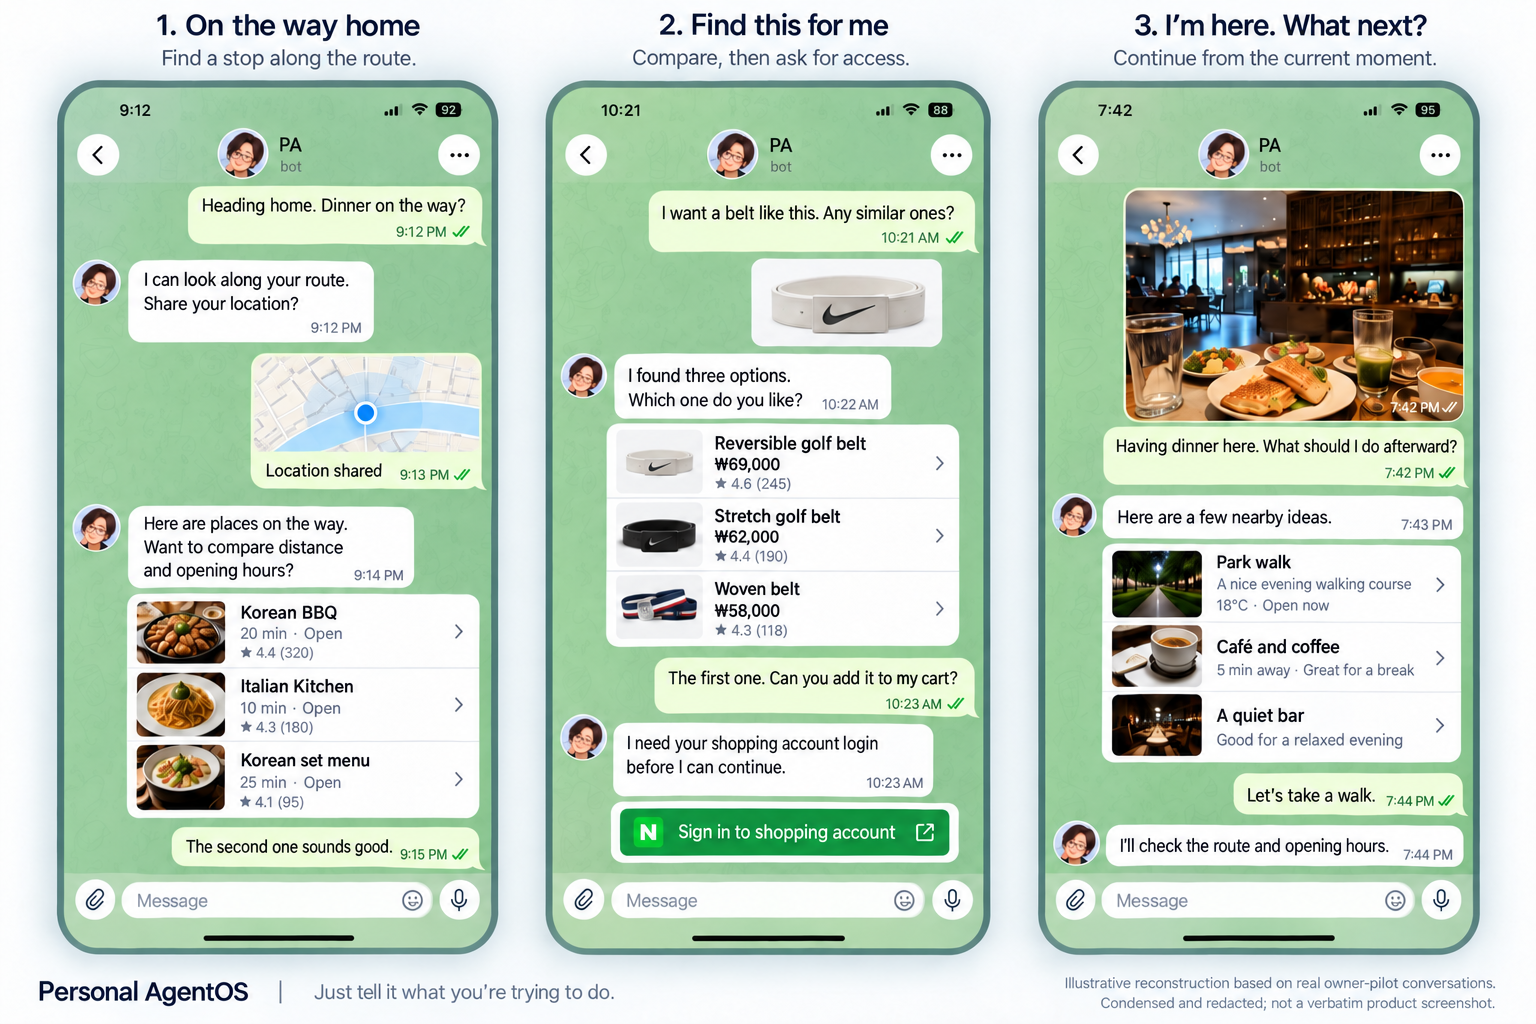
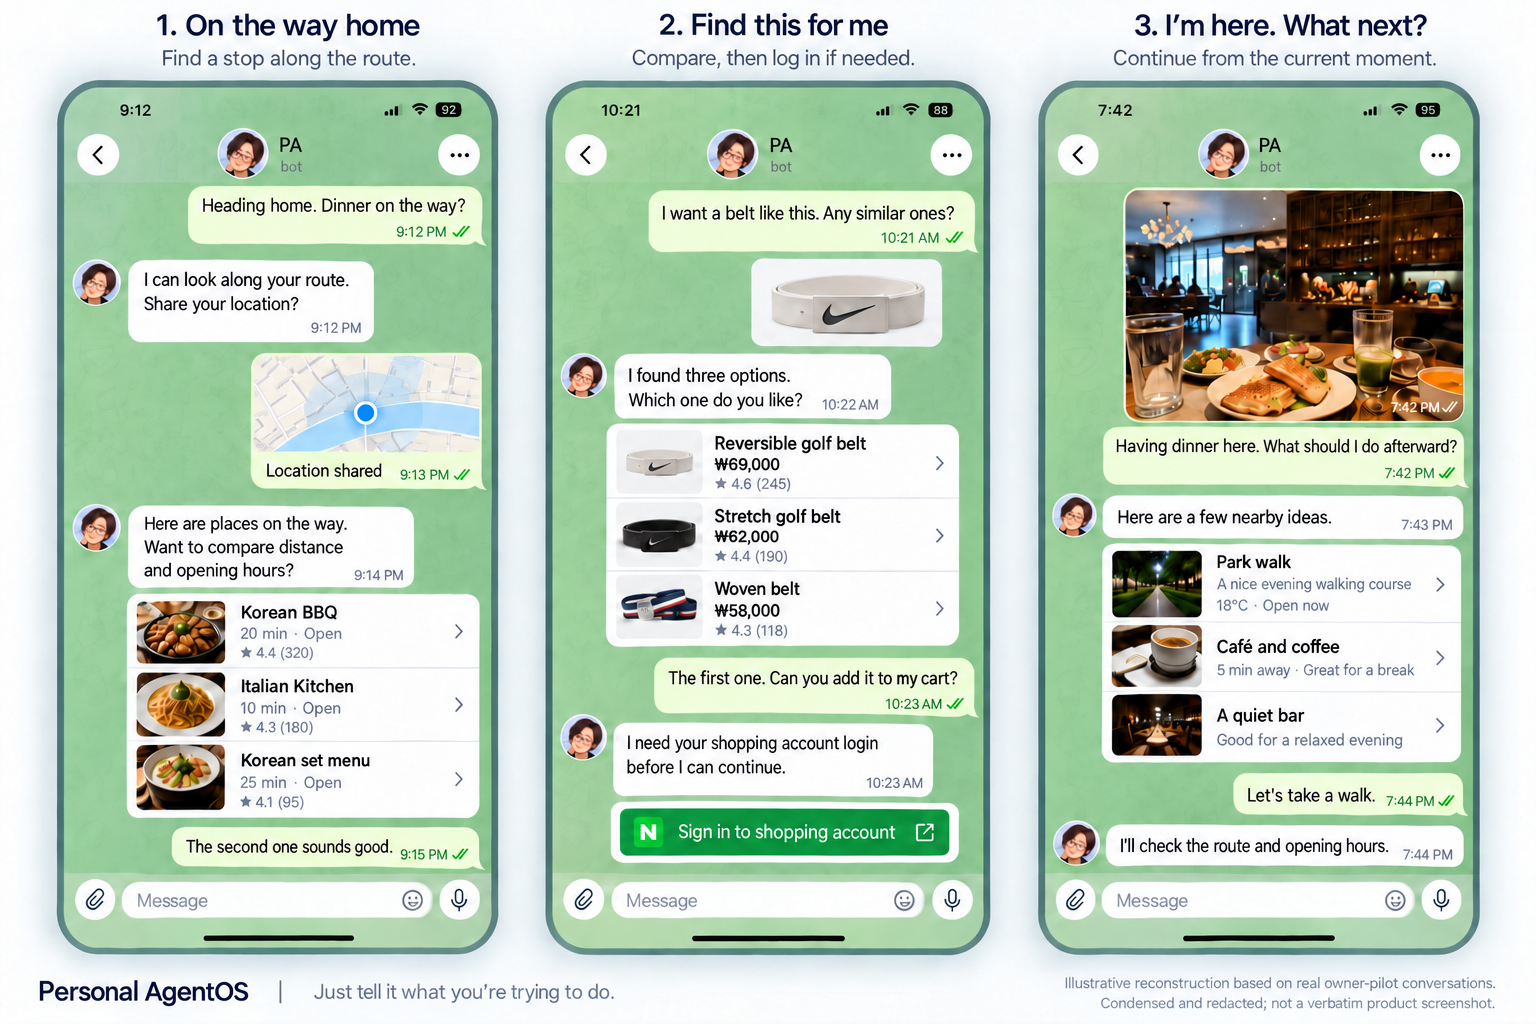
docs: make account login explicit in image subtitles

diff --git a/docs/assets/readme/owner-pilot-conversation-localization.md b/docs/assets/readme/owner-pilot-conversation-localization.md
@@ -4,13 +4,13 @@ The built-in image-generation edit tool used [`owner-pilot-conversation-edited.p
 
 ## Final prompt set
 
-Each language edit was prompted to retain the three realistic phone screens, green interface, avatars, photos, map, product and place cards, relative placement, and footer evidence boundary. It was told to translate **all visible text** into the target language, including headings, subtitles, dialogue, card labels, login button, input placeholder and footer; to keep text legible and inside cards; and to avoid a completed purchase or claim of a live integration. The Korean edit specifically preserved the existing Korean dialogue while translating the remaining English headings, tagline, placeholders and footer.
+Each language edit was prompted to retain the three realistic phone screens, green interface, avatars, photos, map, product and place cards, relative placement, and footer evidence boundary. It was told to translate **all visible text** into the target language, including headings, subtitles, dialogue, card labels, login button, input placeholder and footer; to keep text legible and inside cards; and to avoid a completed purchase or claim of a live integration. The Korean edit specifically preserved the existing Korean dialogue while translating the remaining English headings, tagline, placeholders and footer. A final targeted edit made the second-panel subtitle explicitly about account login in every locale; login is not an AgentOS action-authority grant.
 
 | Locale and file | Key dialogue and labels requested |
 | --- | --- |
-| [`en`](owner-pilot-conversation.en.png) | “Heading home. Dinner on the way?” → request location → route options with distance/open status; belt photo → three priced options → ask for shopping-account login before cart action; restaurant photo → walk/café/bar → check route and hours. Footer: “Illustrative reconstruction based on real owner-pilot conversations. Condensed and redacted; not a verbatim product screenshot.” |
-| [`ko`](owner-pilot-conversation.ko.png) | Existing Korean conversations retained. Headings “집으로 가는 길”, “이거 찾아줘”, “지금 여기야. 다음은?”; Korean subtitle, input labels and footer: “실제 오너 파일럿 대화를 바탕으로 요약·익명화한 설명용 재구성입니다. 제품 화면 그대로의 캡처는 아닙니다.” |
-| [`ja`](owner-pilot-conversation.ja.png) | “帰り道、夕食どうしよう？” → 現在地を共有 → 焼肉・イタリアン・和食; belt photo → three priced options → “続けるには買い物用アカウントへのログインが必要です。”; restaurant photo → 公園を散歩・カフェ・バー → 道順と営業時間を確認. Footer identifies an abridged, anonymized illustrative reconstruction rather than a product capture. |
+| [`en`](owner-pilot-conversation.en.png) | “Heading home. Dinner on the way?” → request location → route options with distance/open status; belt photo → three priced options → ask for shopping-account login before cart action; restaurant photo → walk/café/bar → check route and hours. Middle subtitle: “Compare, then log in if needed.” Footer: “Illustrative reconstruction based on real owner-pilot conversations. Condensed and redacted; not a verbatim product screenshot.” |
+| [`ko`](owner-pilot-conversation.ko.png) | Existing Korean conversations retained. Headings “집으로 가는 길”, “이거 찾아줘”, “지금 여기야. 다음은?”; middle subtitle “비교하고 필요할 때 로그인”; Korean input labels and footer: “실제 오너 파일럿 대화를 바탕으로 요약·익명화한 설명용 재구성입니다. 제품 화면 그대로의 캡처는 아닙니다.” |
+| [`ja`](owner-pilot-conversation.ja.png) | “帰り道、夕食どうしよう？” → 現在地を共有 → 焼肉・イタリアン・和食; belt photo → three priced options → “続けるには買い物用アカウントへのログインが必要です。”; middle subtitle “比較して、必要ならログイン”; restaurant photo → 公園を散歩・カフェ・バー → 道順と営業時間を確認. Footer identifies an abridged, anonymized illustrative reconstruction rather than a product capture. |
 | [`zh-CN`](owner-pilot-conversation.zh-CN.png) | “回家路上，晚饭吃什么？” → 分享位置 → 韩式烤肉・意式餐厅・韩式套餐; belt photo → three priced options → “继续之前，需要登录您的购物账户。”; restaurant photo → 公园散步・咖啡馆・酒吧 → 核对路线和营业时间. Footer identifies an abridged, anonymized illustrative reconstruction rather than a product capture. The middle subtitle was corrected to “比较选择，需要时再登录。” so login is not described as granting action authority. |
 
 The image text and layout were visually checked at full resolution. README captions, alt text and scene-by-scene prose carry the same meaning when the image is downscaled on mobile.
